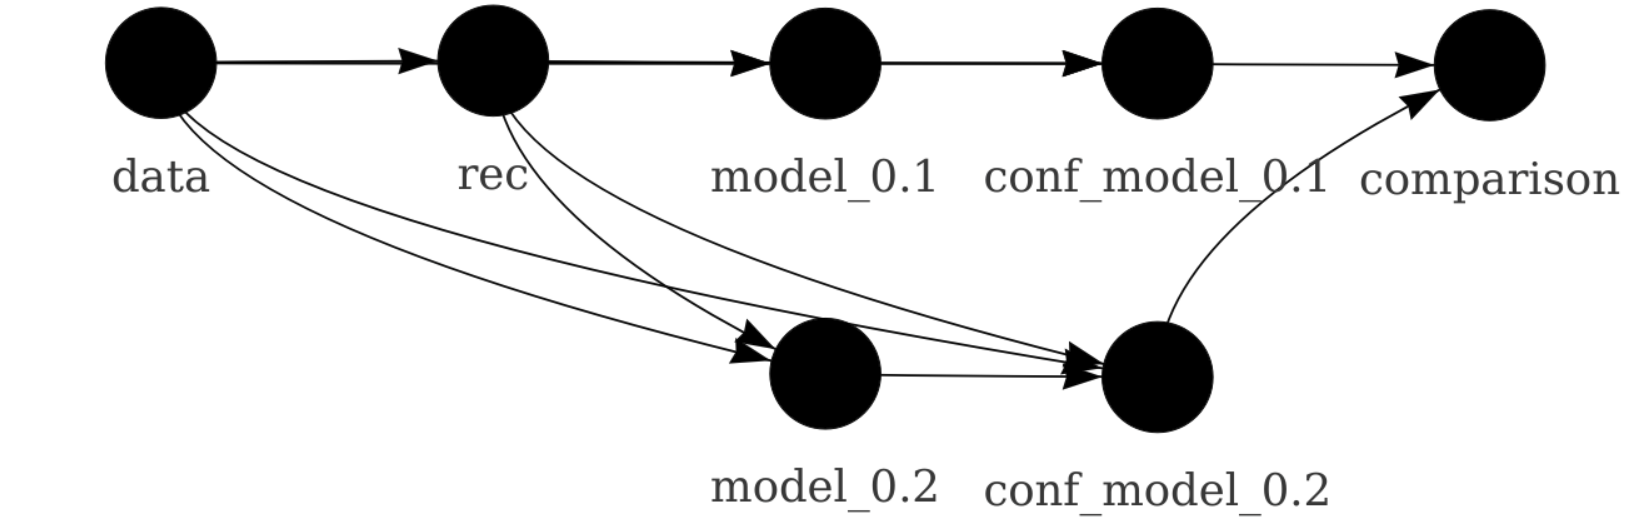
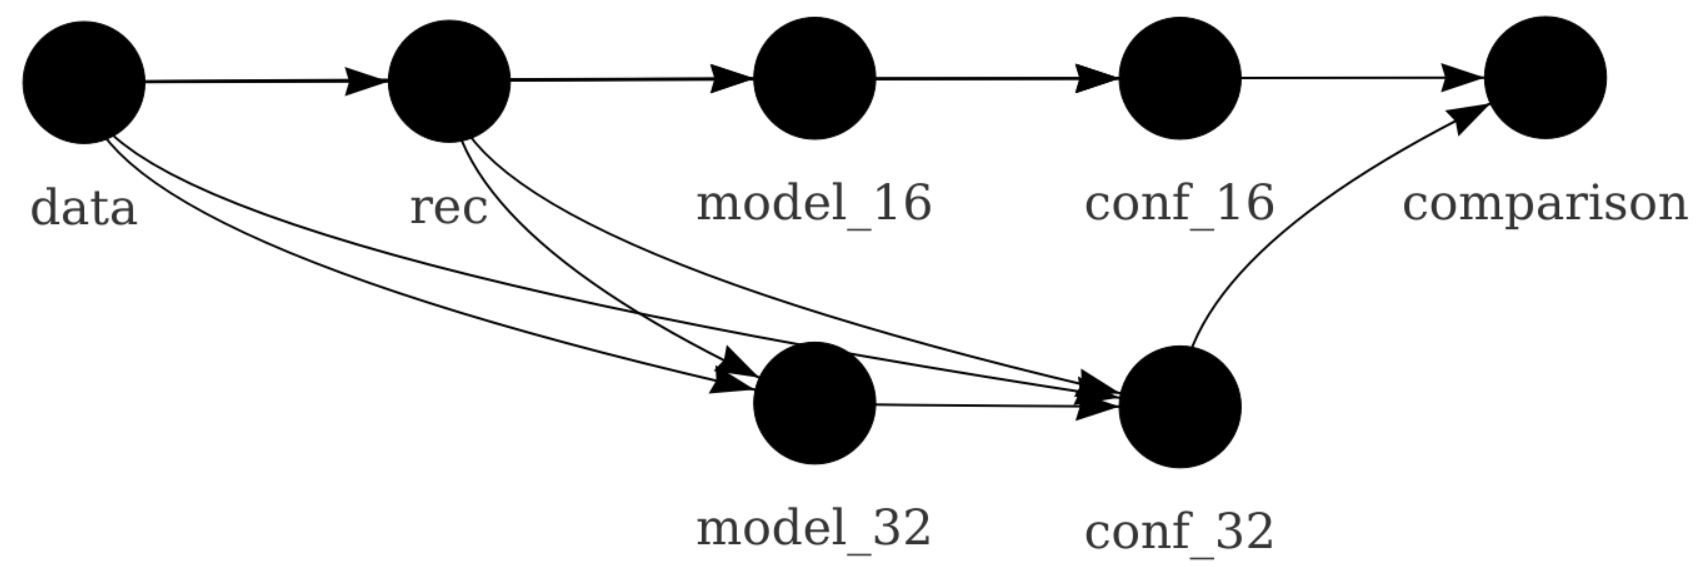
Tune on batch size

diff --git a/index.html b/index.html
@@ -76,14 +76,14 @@ class: center, middle, inverse, title-slide
 
 ---
 
-## When you go back and change something...
+## When change something...
 &lt;center&gt;
 &lt;img src = "./images/change.png" align="middle" style="border: none; box-shadow: none; text-align: center;"&gt;
 &lt;/center&gt;
 
 ---
 
-## ...everything downstream is **no longer valid**.
+## ...downstream steps are **no longer valid**.
 
 &lt;center&gt;
 &lt;img src = "./images/downstream.png" align="middle" style="border: none; box-shadow: none; text-align: center;"&gt;
@@ -193,11 +193,11 @@ prepare_recipe &lt;- function(data) {
   # ... 
 }
 
-define_model &lt;- function(rec, dropout) {
+define_model &lt;- function(rec) {
   # ...
 }
 
-train_model &lt;- function(data, rec, dropout) {
+train_model &lt;- function(data, batch_size) {
   # ...
 }
 
@@ -216,19 +216,19 @@ compare_models &lt;- function(...) {
 
 
 ```r
-dropout_rate &lt;- seq(0.1, 0.2, by = 0.1)
+batch_sizes &lt;- c(16, 32)
 
 plan &lt;- drake_plan(
   data = read_csv(file_in("data/customer_churn.csv")) %&gt;%
     initial_split(prop = 0.3),
   rec = prepare_recipe(data),
   model = target(
-    train_model(data, rec, dropout),
-    transform = map(dropout = !!dropout_rate)
+    train_model(data, rec, batch_size),
+    transform = map(batch_size = !!batch_sizes)
   ),
   conf = target(
     confusion_matrix(data, rec, model),
-    transform = map(model)
+    transform = map(model, .id = batch_size)
   ),
   comparison = target(
     compare_models(conf),
@@ -245,15 +245,15 @@ plan &lt;- drake_plan(
 ```r
 plan
 ## # A tibble: 7 x 2
-##   target        command                                                    
-##   &lt;chr&gt;         &lt;expr&gt;                                                     
-## 1 data          read_csv(file_in("data/customer_churn.csv")) %&gt;% initial_s…
-## 2 rec           prepare_recipe(data)                                      …
-## 3 model_0.1     train_model(data, rec, 0.1)                               …
-## 4 model_0.2     train_model(data, rec, 0.2)                               …
-## 5 conf_model_0… confusion_matrix(data, rec, model_0.1)                    …
-## 6 conf_model_0… confusion_matrix(data, rec, model_0.2)                    …
-## 7 comparison    compare_models(conf_model_0.1, conf_model_0.2)            …
+##   target     command                                                       
+##   &lt;chr&gt;      &lt;expr&gt;                                                        
+## 1 data       read_csv(file_in("data/customer_churn.csv")) %&gt;% initial_spli…
+## 2 rec        prepare_recipe(data)                                         …
+## 3 model_16   train_model(data, rec, 16)                                   …
+## 4 model_32   train_model(data, rec, 32)                                   …
+## 5 conf_16    confusion_matrix(data, rec, model_16)                        …
+## 6 conf_32    confusion_matrix(data, rec, model_32)                        …
+## 7 comparison compare_models(conf_16, conf_32)                             …
 ```
 
 ---
@@ -278,10 +278,10 @@ source("R/plan.R")
 make(plan)
 ## target data
 ## target rec
-## target model_0.1
-## target model_0.2
-## target conf_model_0.1
-## target conf_model_0.2
+## target model_16
+## target model_32
+## target conf_16
+## target conf_32
 ## target comparison
 ```
 
@@ -298,23 +298,23 @@ readd(comparison) # See also loadd()
 
 ---
 
-## Try more models.
+## Try another batch size.
 
 
 ```r
-*dropout_rate &lt;- seq(0.1, 0.4, by = 0.1)
+*batch_sizes &lt;- c(16, 32, 256)
 
 plan &lt;- drake_plan(
   data = read_csv(file_in("data/customer_churn.csv")) %&gt;%
     initial_split(prop = 0.3),
   rec = prepare_recipe(data),
   model = target(
-    train_model(data, rec, dropout),
-*   transform = map(dropout = !!dropout_rate)
+    train_model(data, rec, batch_size),
+*   transform = map(batch_size = !!batch_sizes)
   ),
   conf = target(
     confusion_matrix(data, rec, model),
-    transform = map(model)
+    transform = map(model, .id = batch_size)
   ),
   comparison = target(
     compare_models(conf),
@@ -344,16 +344,14 @@ source("R/functions.R")
 *source("R/plan.R") # modified
 
 make(plan)
-## target model_0.3
-## target model_0.4
-## target conf_model_0.3
-## target conf_model_0.4
+## target model_256
+## target conf_256
 ## target comparison
 ```
 
 ---
 
-## Compare more models.
+## Compare models.
 
 
 ```r

diff --git a/index_files/remark-css/default.css b/index_files/remark-css/default.css
@@ -1,0 +1,72 @@
+a, a > code {
+  color: rgb(249, 38, 114);
+  text-decoration: none;
+}
+.footnote {
+  position: absolute;
+  bottom: 3em;
+  padding-right: 4em;
+  font-size: 90%;
+}
+.remark-code-line-highlighted     { background-color: #ffff88; }
+
+.inverse {
+  background-color: #272822;
+  color: #d6d6d6;
+  text-shadow: 0 0 20px #333;
+}
+.inverse h1, .inverse h2, .inverse h3 {
+  color: #f3f3f3;
+}
+/* Two-column layout */
+.left-column {
+  color: #777;
+  width: 20%;
+  height: 92%;
+  float: left;
+}
+.left-column h2:last-of-type, .left-column h3:last-child {
+  color: #000;
+}
+.right-column {
+  width: 75%;
+  float: right;
+  padding-top: 1em;
+}
+.pull-left {
+  float: left;
+  width: 47%;
+}
+.pull-right {
+  float: right;
+  width: 47%;
+}
+.pull-right ~ * {
+  clear: both;
+}
+img, video, iframe {
+  max-width: 100%;
+}
+blockquote {
+  border-left: solid 5px lightgray;
+  padding-left: 1em;
+}
+.remark-slide table {
+  margin: auto;
+  border-top: 1px solid #666;
+  border-bottom: 1px solid #666;
+}
+.remark-slide table thead th { border-bottom: 1px solid #ddd; }
+th, td { padding: 5px; }
+.remark-slide thead, .remark-slide tfoot, .remark-slide tr:nth-child(even) { background: #eee }
+
+@page { margin: 0; }
+@media print {
+  .remark-slide-scaler {
+    width: 100% !important;
+    height: 100% !important;
+    transform: scale(1) !important;
+    top: 0 !important;
+    left: 0 !important;
+  }
+}

diff --git a/index_files/remark-css/default-fonts.css b/index_files/remark-css/default-fonts.css
@@ -1,0 +1,10 @@
+@import url(https://fonts.googleapis.com/css?family=Yanone+Kaffeesatz);
+@import url(https://fonts.googleapis.com/css?family=Droid+Serif:400,700,400italic);
+@import url(https://fonts.googleapis.com/css?family=Source+Code+Pro:400,700);
+
+body { font-family: 'Droid Serif', 'Palatino Linotype', 'Book Antiqua', Palatino, 'Microsoft YaHei', 'Songti SC', serif; }
+h1, h2, h3 {
+  font-family: 'Yanone Kaffeesatz';
+  font-weight: normal;
+}
+.remark-code, .remark-inline-code { font-family: 'Source Code Pro', 'Lucida Console', Monaco, monospace; }
